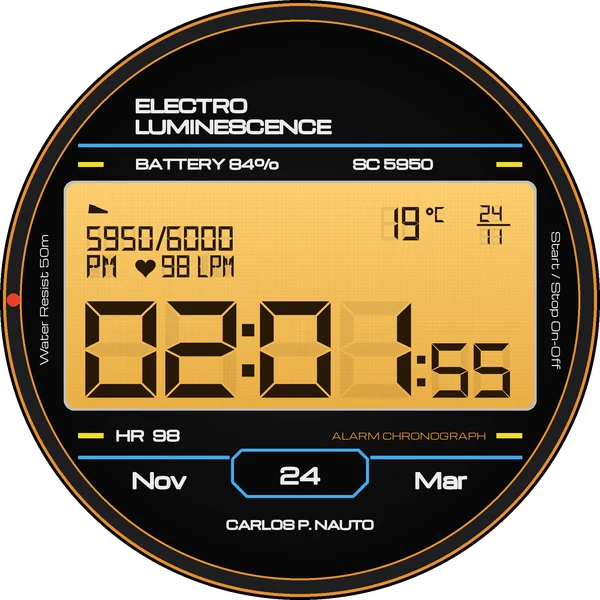
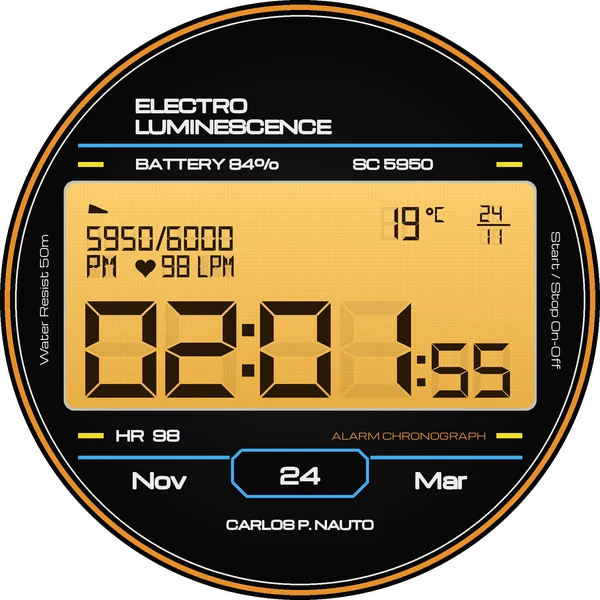
Electro: aro interior blanco fijo pegado al borde de color y sin el punto rojo
Claude-Session: https://claude.ai/code/session_01RTdv2VrACuR4VFWJLA57hx

Changed region(s): [[0.0, 0.0, 1.0, 1.0]]

diff --git a/android/esferas-de-reloj/electro/src/main/java/cl/carlospnauto/esfera/FaceService.kt b/android/esferas-de-reloj/electro/src/main/java/cl/carlospnauto/esfera/FaceService.kt
@@ -306,18 +306,13 @@ class ElectroRenderer(
             fill.shader = RadialGradient(cx, cy, r, Color.rgb(26, 26, 28), Color.rgb(6, 6, 7), Shader.TileMode.CLAMP)
             canvas.drawCircle(cx, cy, r, fill)
             fill.shader = null
-            // Doble borde: aro de color afuera, banda oscura y otro aro fino adentro
-            stroke.color = Color.rgb(30, 30, 33)
-            stroke.strokeWidth = r * 0.05f
-            canvas.drawCircle(cx, cy, r * 0.957f, stroke)
+            // Doble borde: aro de color en la orilla y, muy cerca por dentro, un aro fino blanco (fijo)
             stroke.color = acc.ring
-            stroke.strokeWidth = r * 0.01f
-            canvas.drawCircle(cx, cy, r * 0.984f, stroke)
-            stroke.strokeWidth = r * 0.007f
-            canvas.drawCircle(cx, cy, r * 0.93f, stroke)
-            // Lucecita roja del costado
-            fill.color = Color.rgb(236, 64, 44)
-            canvas.drawCircle(X(-0.955f), cy, r * 0.022f, fill)
+            stroke.strokeWidth = r * 0.018f
+            canvas.drawCircle(cx, cy, r * 0.975f, stroke)
+            stroke.color = Color.rgb(232, 232, 232)
+            stroke.strokeWidth = r * 0.006f
+            canvas.drawCircle(cx, cy, r * 0.947f, stroke)
 
             // ===== Arriba: nombre, barra, batería y pasos (medidas de la foto) =====
             wide(canvas, "ELECTRO", X(-0.55f), Y(-0.625f), r * 0.057f, white, Paint.Align.LEFT)
